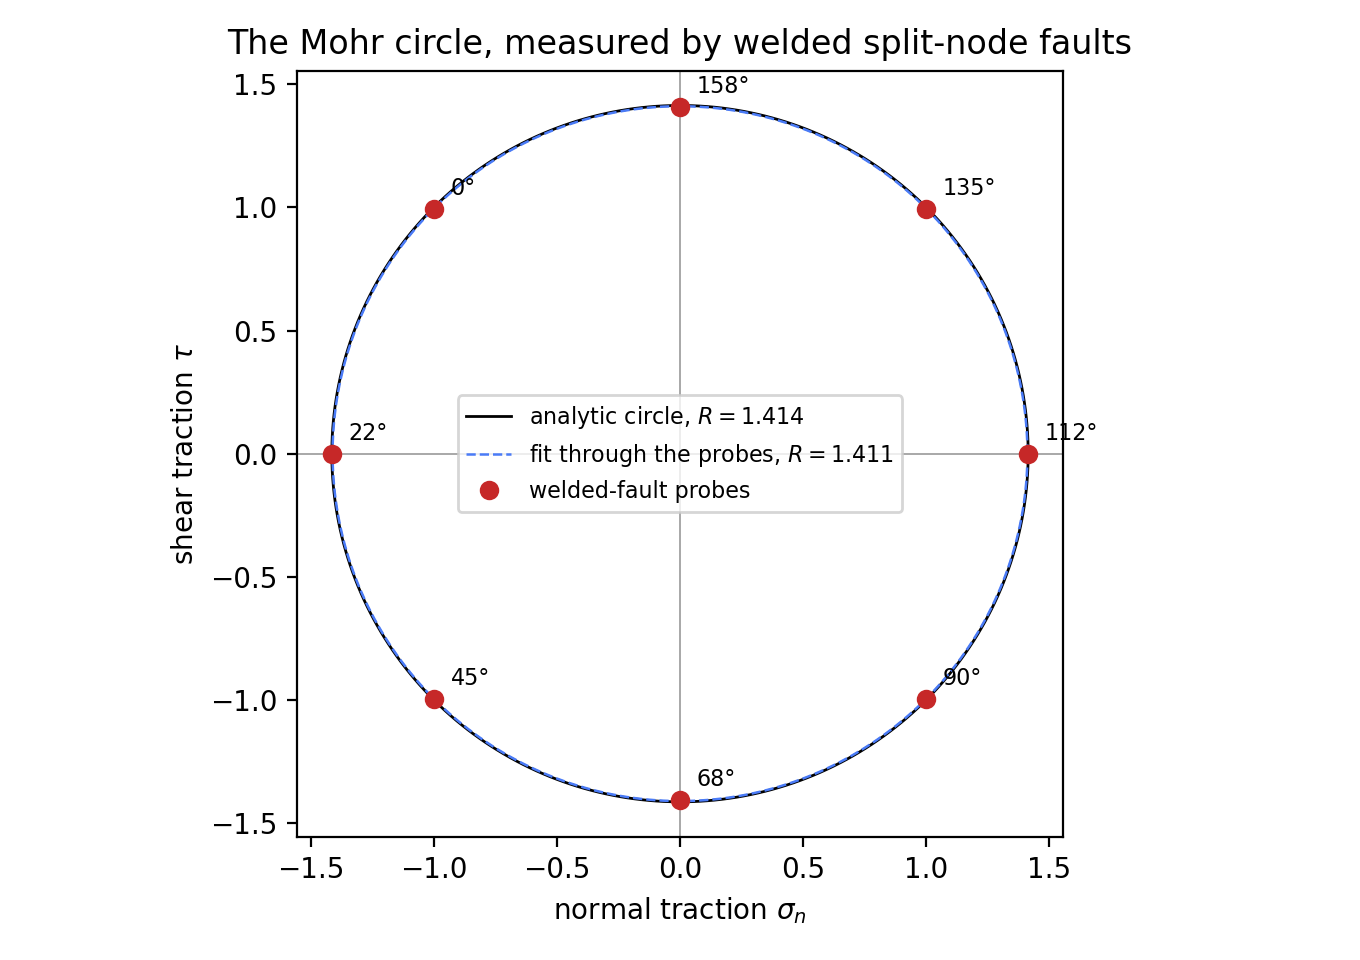
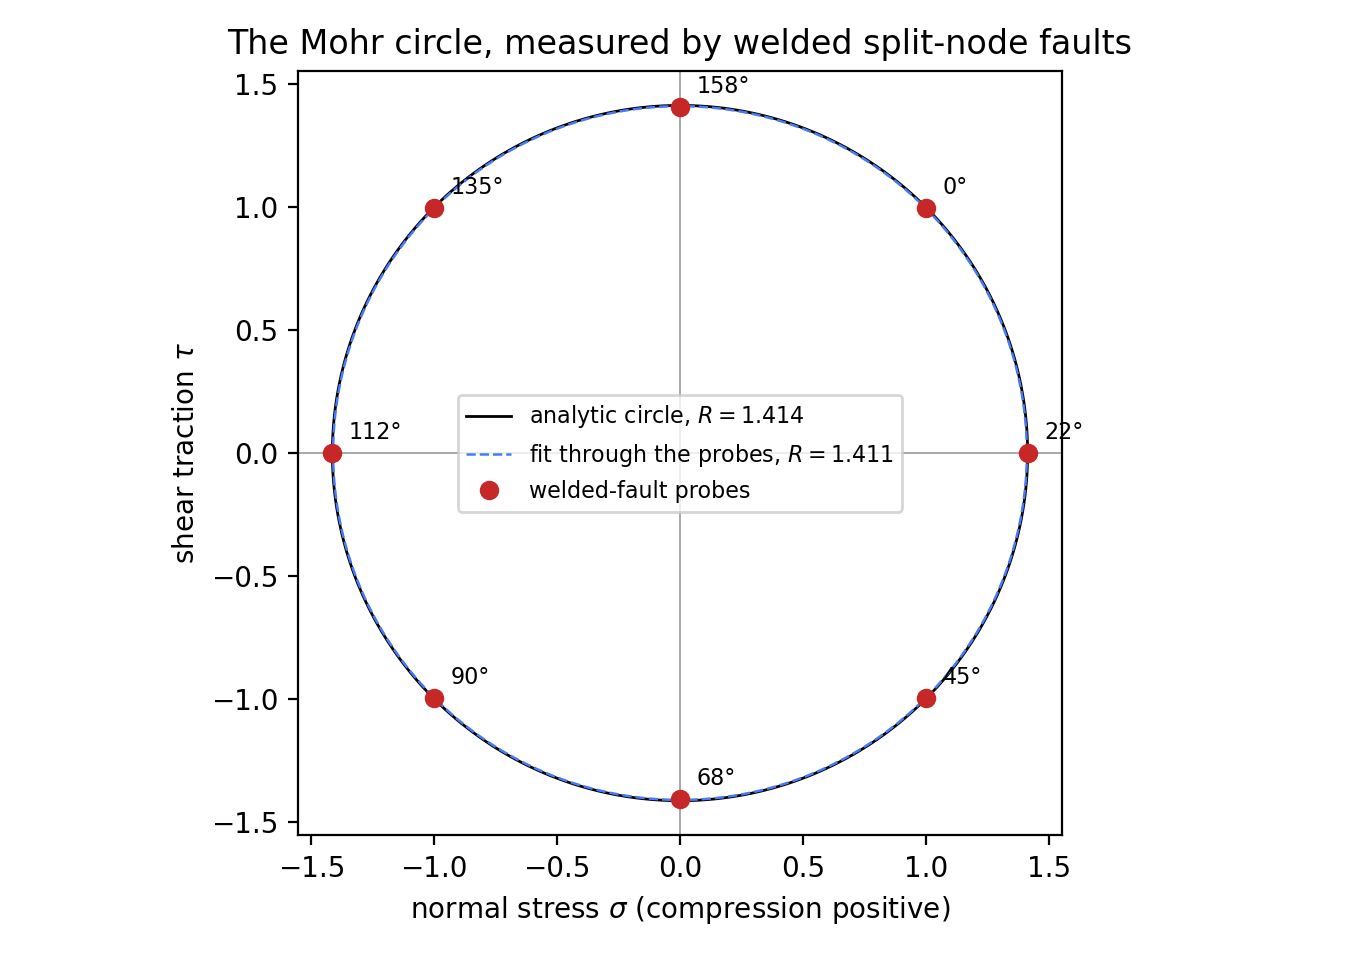
Mohr set: cohesion example; geological sign convention throughout
Cohesive Mohr-Coulomb (C = 0.6, mu = 0.6), registered as a sympy law
in the canonical interface symbols — the intended extension path, four
lines. Measured: stuck arcs survive around BOTH principal poles
(compressive because C + mu sigma = 1.2 exceeds the ambient shear;
tensile because C = 0.6 does), sliding probes pin to the rising
Coulomb rays on the compressive side (tau = 1.0215 vs C + mu sigma =
1.023) and to the FLAT cohesion lines under tension (tau = 0.5994 vs
C = 0.6) — cohesion under tension is shear strength only, the
no-opening constraint already excludes opening. Static + animated.

All four Mohr figures now use the geological sign convention —
compression positive, tension on the negative axis — with the flip
applied at plot time only (solver tractions stay tension-positive,
and the animations' physical-space traction vectors are untouched).
Regenerated from the cached probe sweeps.

Underworld development team with AI support from Claude Code

diff --git a/docs/advanced/figures/fault-examples/mohr_cohesion.py b/docs/advanced/figures/fault-examples/mohr_cohesion.py
@@ -1,22 +1,19 @@
-"""The Mohr circle meets the friction envelope.
+"""Cohesive Mohr-Coulomb: strength survives into the tensile sector.
 
-The frictional sequel to mohr_circle/mohr_animate: the same rotating
-fault, but now carrying Coulomb friction with reaction-fed normal
-stress. Three regimes appear as the fault rotates:
+The cohesive sequel to mohr_friction: the fault's yield envelope is
+tau = C + mu sigma (compression positive). Cohesion holds shear even
+where the normal stress is tensile — the no-opening constraint already
+excludes tensile OPENING, so cohesion appears as a flat shear strength
+C on the tensile side. Compared with the cohesionless case, stuck arcs
+now survive around BOTH principal poles, with envelope-pinned sliding
+between them.
 
-- STUCK — the ambient resolved stress lies inside the envelope
-  |tau| < mu |sigma_n| (compressive side): the fault transmits the
-  full stress and its probe sits ON the Mohr circle;
-- SLIDING — the ambient stress would exceed the envelope: the fault
-  slips, drops the shear traction to its strength, and the probe is
-  pinned to the yield line tau = ±mu |sigma_n|;
-- TENSILE — sigma_n > 0 carries no frictional strength at all: the
-  probe collapses to the sigma axis (a freely slipping crack).
+The law is not a canned option — it is registered as a sympy
+expression in the canonical symbols, which is the whole design: a new
+fault rheology is four lines.
 
-sigma_n comes from the no-opening constraint's reaction; tau is read
-from the Coulomb law at the measured slip rate — exact in both
-regimes, because the regularised law IS the traction the fault
-carries. Outputs: a static summary figure and the animated build.
+All Mohr figures on this page use the GEOLOGICAL sign convention:
+compression positive, tension on the negative axis.
 """
 import os
 
@@ -24,6 +21,7 @@ import matplotlib
 matplotlib.use("Agg")
 import matplotlib.pyplot as plt
 import numpy as np
+import sympy
 from PIL import Image
 
 import underworld3 as uw
@@ -34,12 +32,25 @@ import common
 D = os.path.dirname(os.path.abspath(__file__))
 HALF = 0.2
 A_RATE, GAMMA = 0.5, 1.0
-MU, V0 = 0.7, 1e-4
+MU, C, V0 = 0.6, 0.6, 1e-4
 R_ANALYTIC = common.ETA * np.sqrt(4 * A_RATE**2 + GAMMA**2)
 STEP = 7.5
 angles = np.arange(0.0, 180.0 + 1e-9, STEP)
 
-cache = os.path.join(D, "_mohr_friction_probes.npz")
+
+def register_cohesive_law(stokes):
+    """Mohr-Coulomb with cohesion, as a symbolic law: the assembler
+    feeds normal_stress from the constraint reaction (clamped at zero
+    in tension), so the strength is C there — cohesion in tension."""
+    V = fault_contact.slip_rate
+    S = fault_contact.normal_stress
+    law = fault_contact.SymbolicFaultLaw(
+        (C + MU * S) * (2 / sympy.pi) * sympy.atan(V / V0))
+    fault_contact.add_frictionless_fault_bc(stokes, "Fault")
+    fault_contact._register_law(stokes, "Fault", law)
+
+
+cache = os.path.join(D, "_mohr_cohesion_probes.npz")
 if os.path.exists(cache):
     probes = np.load(cache)["probes"]
     assert len(probes) == len(angles)
@@ -51,58 +62,60 @@ else:
             common.base_mesh(0.04), common.fault_segment(theta, HALF))
         stokes = common.stokes_on(
             child, common.shear_plus_stretch(child, A_RATE, GAMMA))
-        fault_contact.add_coulomb_fault_bc(stokes, MU, "Fault",
-                                           sigma_n="reaction", V0=V0)
+        register_cohesive_law(stokes)
         fault_contact.solve_with_fault(stokes, picard=3)
         s, V, _leak = common.slip_profile(stokes)
         s_n, sig = common.normal_traction(stokes)
         v_med = float(np.median(V[common.inner(s)]))
         sigma_n = float(np.median(sig[common.inner(s_n)]))
         sigma_eff = max(-sigma_n, 0.0)
-        tau = MU * sigma_eff * (2 / np.pi) * np.arctan(v_med / V0)
+        tau = (C + MU * sigma_eff) * (2 / np.pi) * np.arctan(v_med / V0)
         rows.append((theta, sigma_n, tau, v_med))
         print(f"theta {theta:6.1f}: sigma_n {sigma_n:8.4f}  "
               f"tau {tau:8.4f}  V {v_med:9.5f}")
     probes = np.array(rows)
     np.savez(cache, probes=probes)
 
-centre = 0.0                        # the welded sweep's measured gauge
 sliding = np.abs(probes[:, 3]) > 5 * V0
-# GEOLOGICAL convention on the stress plane: compression positive.
-scg = -probes[:, 1]
+# GEO convention for plotting: compression positive
+sc = -probes[:, 1]
+tau = probes[:, 2]
 
 
 def draw_stress_plane(ax):
     tt = np.linspace(0, 2 * np.pi, 300)
-    ax.plot(centre + R_ANALYTIC * np.cos(tt), R_ANALYTIC * np.sin(tt),
+    ax.plot(R_ANALYTIC * np.cos(tt), R_ANALYTIC * np.sin(tt),
             "-", color="0.8", lw=0.9,
             label="ambient stress (welded circle)")
-    ss = np.linspace(0, 1.35 * R_ANALYTIC, 50)
+    s_pos = np.linspace(0, 1.5 * R_ANALYTIC, 50)
+    s_neg = np.linspace(-1.5 * R_ANALYTIC, 0, 50)
     for sgn in (+1, -1):
-        ax.plot(ss, sgn * MU * ss, "--", color="0.35", lw=1.0,
-                label=(r"friction envelope $\tau = \pm\mu\sigma$"
+        ax.plot(s_pos, sgn * (C + MU * s_pos), "--", color="0.35",
+                lw=1.0, label=(r"envelope $\tau = \pm(C + \mu\sigma)$"
+                               if sgn > 0 else None))
+        ax.plot(s_neg, sgn * C * np.ones_like(s_neg), "--",
+                color="0.6", lw=0.9,
+                label=("cohesion under tension (no opening)"
                        if sgn > 0 else None))
     ax.axhline(0, color="0.85", lw=0.6)
-    ax.axvline(centre, color="0.85", lw=0.6)
+    ax.axvline(0, color="0.85", lw=0.6)
     ax.set_xlabel(r"normal stress $\sigma$ (compression positive)")
     ax.set_ylabel(r"shear traction $\tau$")
-    ax.set_xlim(centre - 1.5 * R_ANALYTIC, centre + 1.5 * R_ANALYTIC)
+    ax.set_xlim(-1.6 * R_ANALYTIC, 1.6 * R_ANALYTIC)
     ax.set_ylim(-1.35 * R_ANALYTIC, 1.35 * R_ANALYTIC)
     ax.set_aspect("equal")
 
 
-# ---- the static summary -----------------------------------------------------
-fig, ax = plt.subplots(figsize=(7.2, 5.4))
+fig, ax = plt.subplots(figsize=(7.6, 5.4))
 draw_stress_plane(ax)
-ax.plot(scg[~sliding], probes[~sliding, 2], "o", ms=7,
-        color="#c62828", label="stuck: on the circle", zorder=5)
-ax.plot(scg[sliding], probes[sliding, 2], "s", ms=6,
-        color="#d9960a", label="sliding: on the envelope", zorder=5)
-ax.legend(fontsize=8, loc="upper left")
-ax.set_title(rf"Coulomb fault probes, $\mu = {MU}$: "
-             "the stress switches to the yield envelope")
+ax.plot(sc[~sliding], tau[~sliding], "o", ms=7, color="#c62828",
+        label="stuck: on the circle", zorder=5)
+ax.plot(sc[sliding], tau[sliding], "s", ms=6, color="#d9960a",
+        label="sliding: on the envelope", zorder=5)
+ax.legend(fontsize=8, loc="lower right")
+ax.set_title(rf"Cohesive Mohr-Coulomb fault, $C = {C}$, $\mu = {MU}$")
 fig.tight_layout()
-out = os.path.join(D, "mohr-friction.png")
+out = os.path.join(D, "mohr-cohesion.png")
 fig.savefig(out, dpi=200)
 print("wrote", out)
 
@@ -123,17 +136,12 @@ for k in range(len(probes)):
     axl.plot([c[0] - HALF * t[0], c[0] + HALF * t[0]],
              [c[1] - HALF * t[1], c[1] + HALF * t[1]],
              "-", color="#c62828", lw=2.5)
-    axl.annotate("", xytext=c, xy=c + 0.14 * n,
-                 arrowprops=dict(arrowstyle="->", lw=1.0, color="0.35"))
-    axl.text(*(c + 0.18 * n), r"$\hat n$", fontsize=9, ha="center",
-             color="0.35")
     T = sig_k * n + tau_k * t
     scale = 0.16 / R_ANALYTIC
     axl.annotate("", xytext=c, xy=c + scale * T,
                  arrowprops=dict(arrowstyle="-|>", lw=2.2,
                                  color="#4a7bf7"))
     if slide_k:
-        # half-arrows for the slip sense
         off = 0.035 * n
         sgn = np.sign(v_k)
         for pm in (+1, -1):
@@ -142,42 +150,37 @@ for k in range(len(probes)):
                          arrowprops=dict(arrowstyle="->", lw=1.4,
                                          color="#d9960a"))
     axl.text(0.06, 0.9, rf"$\theta = {theta:.1f}°$", fontsize=12)
-    status = "SLIDING" if slide_k else "stuck"
-    axl.text(0.06, 0.82, status, fontsize=10,
+    axl.text(0.06, 0.82, "SLIDING" if slide_k else "stuck", fontsize=10,
              color="#d9960a" if slide_k else "#c62828")
-    axl.text(0.06, 0.135, r"$\sigma\cdot\hat n$: traction on the plane",
-             fontsize=9, color="#4a7bf7", transform=axl.transAxes)
     axl.set_xlim(-0.06, 1.06)
     axl.set_ylim(-0.06, 1.06)
     axl.set_aspect("equal")
     axl.set_xticks([])
     axl.set_yticks([])
-    axl.set_title(rf"Coulomb fault, $\mu = {MU}$, rotating ...",
+    axl.set_title(rf"cohesive fault, $C = {C}$, $\mu = {MU}$ ...",
                   fontsize=10)
 
     draw_stress_plane(axr)
-    axr.legend(fontsize=7, loc="upper left")
+    axr.legend(fontsize=7, loc="lower right")
     stuck_prev = ~sliding[:k + 1]
     slide_prev = sliding[:k + 1]
-    axr.plot(scg[:k + 1][stuck_prev], probes[:k + 1][stuck_prev, 2],
-             "o", ms=5, mfc="none", mec="#c62828", mew=1.2)
-    axr.plot(scg[:k + 1][slide_prev], probes[:k + 1][slide_prev, 2],
-             "s", ms=5, mfc="none", mec="#d9960a", mew=1.2)
-    axr.plot([-sig_k], [tau_k], "o" if not slide_k else "s", ms=9,
+    axr.plot(sc[:k + 1][stuck_prev], tau[:k + 1][stuck_prev], "o", ms=5,
+             mfc="none", mec="#c62828", mew=1.2)
+    axr.plot(sc[:k + 1][slide_prev], tau[:k + 1][slide_prev], "s", ms=5,
+             mfc="none", mec="#d9960a", mew=1.2)
+    axr.plot([sc[k]], [tau[k]], "s" if slide_k else "o", ms=9,
              color="#d9960a" if slide_k else "#c62828", zorder=6)
-    axr.set_title("... its traction cannot leave the envelope",
-                  fontsize=10)
+    axr.set_title("... stuck arcs at BOTH poles now", fontsize=10)
 
-    fig.suptitle("A frictional fault against the Mohr circle",
-                 fontsize=11)
+    fig.suptitle("Cohesion keeps more of the Mohr circle", fontsize=11)
     fig.tight_layout()
-    frame = os.path.join(D, f"_mohrf_frame_{k:03d}.png")
+    frame = os.path.join(D, f"_mohrc_frame_{k:03d}.png")
     fig.savefig(frame, dpi=110)
     plt.close(fig)
     frames.append(frame)
 
 images = [Image.open(f) for f in frames]
-out = os.path.join(D, "mohr-friction-build.gif")
+out = os.path.join(D, "mohr-cohesion-build.gif")
 images[0].save(out, save_all=True,
                append_images=images[1:] + [images[-1]] * 6,
                duration=280, loop=0)

diff --git a/docs/advanced/figures/fault-examples/mohr_animate.py b/docs/advanced/figures/fault-examples/mohr_animate.py
@@ -41,6 +41,11 @@ else:
     probes = np.array(probes)
     np.savez(cache, probes=probes)
 centre = float(np.mean(probes[:, 1]))
+# GEOLOGICAL convention on the stress plane: compression positive.
+# The left panel's traction vector stays in physical (tension-positive)
+# components; only the Mohr diagram flips.
+cg = -centre
+scg = -probes[:, 1]
 
 frames = []
 for k in range(len(probes)):
@@ -86,25 +91,25 @@ for k in range(len(probes)):
 
     # ---- right: the probe sweeps the circle, twice as fast --------------
     tt = np.linspace(0, 2 * np.pi, 300)
-    axr.plot(centre + R_ANALYTIC * np.cos(tt), R_ANALYTIC * np.sin(tt),
+    axr.plot(cg + R_ANALYTIC * np.cos(tt), R_ANALYTIC * np.sin(tt),
              "-", color="0.75", lw=0.9)
     axr.axhline(0, color="0.8", lw=0.6)
-    axr.axvline(centre, color="0.8", lw=0.6)
-    axr.plot([centre - R_ANALYTIC, centre + R_ANALYTIC], [0, 0], "D",
+    axr.axvline(cg, color="0.8", lw=0.6)
+    axr.plot([cg - R_ANALYTIC, cg + R_ANALYTIC], [0, 0], "D",
              ms=5, color="0.3", zorder=4)
-    axr.text(centre - R_ANALYTIC, -0.16 * R_ANALYTIC,
+    axr.text(cg + R_ANALYTIC, -0.16 * R_ANALYTIC,
              "principal\nstresses", fontsize=7, ha="center", va="top",
              color="0.3")
-    axr.plot(probes[:k + 1, 1], probes[:k + 1, 2], "o", ms=5,
+    axr.plot(scg[:k + 1], probes[:k + 1, 2], "o", ms=5,
              mfc="none", mec="#c62828", mew=1.2)
-    axr.plot([centre, sig_k], [0.0 * centre, tau_k], "-",
+    axr.plot([cg, -sig_k], [0.0, tau_k], "-",
              color="#4a7bf7", lw=1.2)
-    axr.plot([sig_k], [tau_k], "o", ms=9, color="#c62828", zorder=5)
+    axr.plot([-sig_k], [tau_k], "o", ms=9, color="#c62828", zorder=5)
     axr.text(0.04, 0.94, r"... its stress probe sweeps at $2\theta$",
              fontsize=10, transform=axr.transAxes)
-    axr.set_xlabel(r"normal traction $\sigma_n$")
+    axr.set_xlabel(r"normal stress $\sigma$ (compression positive)")
     axr.set_ylabel(r"shear traction $\tau$")
-    axr.set_xlim(centre - 1.35 * R_ANALYTIC, centre + 1.35 * R_ANALYTIC)
+    axr.set_xlim(cg - 1.35 * R_ANALYTIC, cg + 1.35 * R_ANALYTIC)
     axr.set_ylim(-1.35 * R_ANALYTIC, 1.35 * R_ANALYTIC)
     axr.set_aspect("equal")
 

diff --git a/docs/advanced/figures/fault-examples/mohr_circle.py b/docs/advanced/figures/fault-examples/mohr_circle.py
@@ -46,6 +46,10 @@ for theta in angles:
     print(f"theta {theta:5.1f}: sigma_n {sigma_n:8.4f}  tau {tau:7.4f}")
 
 points = np.array(points)
+# GEOLOGICAL sign convention for the stress plane: compression positive,
+# tension on the negative axis (the solver's tractions are
+# tension-positive; only the plot flips).
+points[:, 1] *= -1.0
 
 # circle fit: centre c on the sigma axis, radius R, from the probes
 sig, tau = points[:, 1], points[:, 2]
@@ -70,7 +74,7 @@ for theta, sg, tu in points:
     ax.annotate(f"{theta:.0f}°", (sg, tu), textcoords="offset points",
                 xytext=(6, 5), fontsize=8)
 ax.axhline(0, color="0.6", lw=0.6)
-ax.set_xlabel(r"normal traction $\sigma_n$")
+ax.set_xlabel(r"normal stress $\sigma$ (compression positive)")
 ax.set_ylabel(r"shear traction $\tau$")
 ax.set_title("The Mohr circle, measured by welded split-node faults")
 ax.set_aspect("equal")

diff --git a/docs/advanced/fault-mechanics-examples.md b/docs/advanced/fault-mechanics-examples.md
@@ -40,6 +40,10 @@ Script: `figures/fault-examples/ladder.py`.
 
 ## The Mohr circle, measured by faults
 
+All the stress-plane figures below use the **geological sign
+convention**: compression positive, tension on the negative axis. (The
+solver's tractions are tension-positive; only the plots flip.)
+
 A *welded* split fault (interface dashpot with large $\eta_f$) does not
 perturb the flow — the welded limit recovers the uncut continuum — but
 its machinery still reports the tractions across it: the no-opening
@@ -88,13 +92,13 @@ Three regimes appear in one sweep:
 ![Coulomb fault vs the Mohr circle](figures/fault-examples/mohr-friction.png)
 
 - **Stuck** (circles): the ambient resolved stress lies inside the
-  envelope $|\tau| < \mu|\sigma_n|$ — the fault transmits it and the
+  envelope $|\tau| < \mu\sigma$ — the fault transmits it and the
   probe sits on the Mohr circle;
 - **Sliding** (squares): the ambient stress would exceed the envelope —
   the fault slips, drops the shear traction to its strength, and the
   probe is pinned to the yield line;
-- **Tensile**: $\sigma_n > 0$ carries no frictional strength, and the
-  probe collapses to the $\sigma_n$ axis (a freely slipping crack).
+- **Tensile** ($\sigma < 0$): no frictional strength at all, and the
+  probe collapses to the axis (a freely slipping crack).
 
 The shear traction here is read from the Coulomb law at the measured
 slip rate — which is exact in every regime, because the regularised
@@ -105,6 +109,33 @@ half-arrows when it unlocks:
 ![A frictional fault against the Mohr circle](figures/fault-examples/mohr-friction-build.gif)
 
 Script: `figures/fault-examples/mohr_friction.py`.
+
+### Cohesion keeps more of the circle
+
+Add cohesion — the envelope becomes $\tau = \pm(C + \mu\sigma)$ —
+and strength survives into the tensile sector (the no-opening
+constraint already excludes tensile opening, so cohesion appears there
+as a flat shear strength $C$). Stuck arcs now survive around **both**
+principal poles, with envelope-pinned sliding between: on the rising
+Coulomb rays where compressive, on the flat cohesion lines where
+tensile.
+
+![Cohesive Mohr-Coulomb fault](figures/fault-examples/mohr-cohesion.png)
+
+The cohesive law is not a canned option — it is registered as a sympy
+expression in the canonical interface symbols, which is the intended
+extension path for any fault rheology:
+
+```python
+V = fault_contact.slip_rate
+S = fault_contact.normal_stress          # reaction-fed, clamped >= 0
+law = fault_contact.SymbolicFaultLaw(
+    (C + mu * S) * (2 / sympy.pi) * sympy.atan(V / V0))
+```
+
+![Cohesion keeps more of the circle](figures/fault-examples/mohr-cohesion-build.gif)
+
+Script: `figures/fault-examples/mohr_cohesion.py`.
 
 ## Orientation and slip: the circle's other face
 
